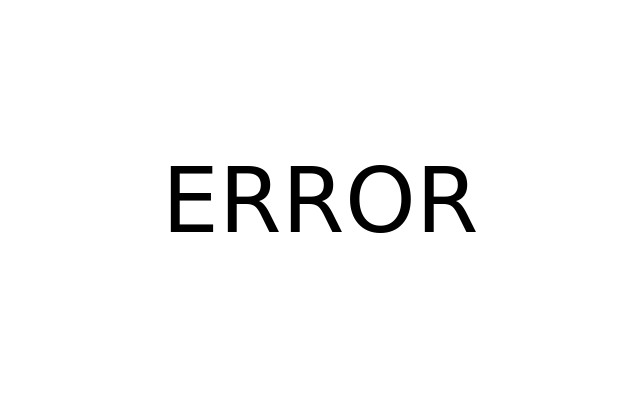
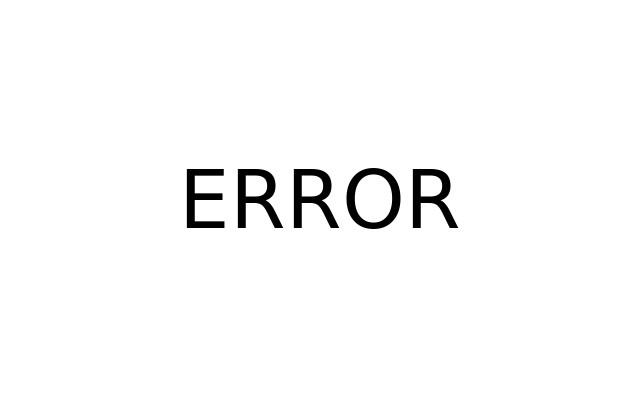
fix

Changed region(s): [[0.25, 0.39, 0.75, 0.6]]

diff --git a/src/ui/compare_images.rs b/src/ui/compare_images.rs
@@ -4,16 +4,17 @@ use image;
 
 use std::path::Path;
 
-pub struct Images {
+pub struct CompareImages {
     widget: gtk::Box,
     image0: gtk::Image,
     image1: gtk::Image,
+    dimensions: (i32, i32)
 }
 
 type ImagePair<'a> = Option<(&'a Path, &'a Path)>;
 
-impl Images {
-    pub fn new_from_pair(pair: ImagePair) -> Images {
+impl CompareImages {
+    pub fn new_from_pair(pair: ImagePair, dimensions: (i32, i32)) -> Self {
         let b = gtk::Box::new(gtk::Orientation::Horizontal, 0);
         b.set_valign(gtk::Align::Start);
         b.set_homogeneous(true);
@@ -23,10 +24,11 @@ impl Images {
         b.add(&image0);
         b.add(&image1);
 
-        let images = Images {
+        let images = CompareImages {
             widget: b,
             image0: image0,
             image1: image1,
+            dimensions: dimensions,
         };
         images.update_pair(pair);
         images
@@ -34,22 +36,22 @@ impl Images {
     pub fn update_pair(&self, pair: ImagePair) {
         match pair {
             None => {
-                let pixbuf = image::from_path("./images/placeholder.jpg").unwrap();
+                let pixbuf = image::from_path("./images/placeholder.jpg", self.dimensions).unwrap();
                 self.image0.set_from_pixbuf(Some(&pixbuf));
                 self.image1.set_from_pixbuf(Some(&pixbuf));
             }
             Some((path0, path1)) => {
-                match image::from_path(path0) {
+                match image::from_path(path0, self.dimensions) {
                     Ok(pixbuf) => self.image0.set_from_pixbuf(Some(&pixbuf)),
                     Err(_) => {
-                        let err_pixbuf = image::from_path("./images/error.jpg").unwrap();
+                        let err_pixbuf = image::from_path("./images/error.jpg", self.dimensions).unwrap();
                         self.image0.set_from_pixbuf(Some(&err_pixbuf))
                     }
                 }
-                match image::from_path(path1) {
+                match image::from_path(path1, self.dimensions) {
                     Ok(pixbuf) => self.image1.set_from_pixbuf(Some(&pixbuf)),
                     Err(_) => {
-                        let err_pixbuf = image::from_path("./images/error.jpg").unwrap();
+                        let err_pixbuf = image::from_path("./images/error.jpg", self.dimensions).unwrap();
                         self.image1.set_from_pixbuf(Some(&err_pixbuf))
                     }
                 }

diff --git a/src/image/mod.rs b/src/image/mod.rs
@@ -3,24 +3,23 @@ mod error;
 use gdk_pixbuf::{Pixbuf, PixbufLoader, InterpType};
 // use glib;
 // use gtk;
-use config;
+// use config;
 use std::path::Path;
 use std::fs::File;
 use std::io::prelude::*;
 
-pub fn get_new_dimensions((width, height): (i32, i32)) -> (i32, i32) {
-    let new_height = (height * config::MAX_WIDTH) / width;
 
-    if new_height <= config::MAX_HEIGHT {
-        (config::MAX_WIDTH, new_height)
+pub fn get_new_dimensions((width, height): (i32, i32), (max_width, min_height): (i32, i32)) -> (i32, i32) {
+    let new_height = (height * max_width) / width;
+
+    if new_height <= min_height {
+        (max_width, new_height)
     } else {
-        ((width * config::MAX_HEIGHT) / height, config::MAX_HEIGHT)
+        ((width * min_height) / height, min_height)
     }
 }
 
-pub fn from_path<P: AsRef<Path>>(path: P) -> Result<Pixbuf, error::Error> {
-    // let path = path.as_ref();
-
+pub fn from_path<P: AsRef<Path>>(path: P, dimensions: (i32, i32)) -> Result<Pixbuf, error::Error> {
     let mut file = match File::open(path) {
         Ok(f) => f,
         Err(e) => {
@@ -44,7 +43,7 @@ pub fn from_path<P: AsRef<Path>>(path: P) -> Result<Pixbuf, error::Error> {
             return Err(error::Error::NoPixbuf);
         }
     };
-    let (w, h) = get_new_dimensions((pixbuf.get_width(), pixbuf.get_height()));
+    let (w, h) = get_new_dimensions((pixbuf.get_width(), pixbuf.get_height()), dimensions);
     let pixbuf = pixbuf.scale_simple(w, h, InterpType::Hyper).unwrap();
     Ok(pixbuf)
 }

diff --git a/src/ui/image_list.rs b/src/ui/image_list.rs
@@ -1,0 +1,47 @@
+#![allow(dead_code, unused_variables, unused_imports)]
+use gtk;
+use gtk::prelude::*;
+
+use std::path::Path;
+use std::cmp::min;
+
+use image;
+
+pub struct ImageList {
+    widget: gtk::Box,
+}
+
+
+impl ImageList {
+    pub fn new(paths: &[&Path], selection: usize, dimensions: (i32, i32)) -> Self {
+        let b = gtk::Box::new(gtk::Orientation::Horizontal, 0);
+
+        let selection_begin = if selection <= 2 {
+            0
+        } else {
+            selection - 2
+        };
+        let selection_end = min(selection_begin + 5, paths.len());
+        let selection = selection - selection_begin;
+
+        let paths = &paths[selection_begin..selection_end];
+
+        for (n, path) in paths.into_iter().enumerate() {
+            let pixbuf = image::from_path(path, dimensions).unwrap();
+            let image = gtk::Image::new_from_pixbuf(Some(&pixbuf));
+            if n == selection {
+                image.set_name("image_active");
+            } else {
+                image.set_name("image_inactive");
+            }
+            b.add(&image);
+        }
+
+        ImageList {
+            widget: b
+        }
+    }
+    pub fn get_gtk_box(&self) -> &gtk::Box {
+        return &self.widget
+    }
+}

diff --git a/src/views/main.rs b/src/views/main.rs
@@ -6,7 +6,7 @@ use ui;
 
 pub struct Main {
     widget: gtk::Box,
-    images: ui::Images,
+    images: ui::CompareImages,
 }
 
 use std::path::PathBuf;
@@ -21,12 +21,24 @@ impl Main {
         b.set_homogeneous(false);
 
         let menubar = ui::MenuBar::new(parent_window, on_add_files);
-
         b.add(menubar.get_gtk_menubar());
 
-        let images = ui::Images::new_from_pair(state.get_pair());
-        b.add(images.get_gtk_box());
+        let grid = gtk::Grid::new();
 
+        let images = ui::CompareImages::new_from_pair(state.get_pair(), (128*5, 128*5));
+        grid.attach(images.get_gtk_box(), 0, 0, 2, 1);
+
+        {
+            let image_list = ui::ImageList::new(&state.get_unsorted(), 0, (128, 128));
+            grid.attach(image_list.get_gtk_box(), 0, 1, 1, 1);
+        };
+
+        {
+            let image_list = ui::ImageList::new(&state.get_sorted(), 0, (128, 128));
+            grid.attach(image_list.get_gtk_box(), 1, 1, 1, 1);
+        };
+
+        b.add(&grid);
         return Main {
             widget: b,
             images: images,

diff --git a/src/main.rs b/src/main.rs
@@ -5,7 +5,6 @@ mod image;
 mod ui;
 mod views;
 mod state;
-mod config;
 
 extern crate gtk;
 extern crate gdk_pixbuf;
@@ -22,6 +21,11 @@ fn main() {
         return;
     }
     let window = Window::new(WindowType::Toplevel);
+    let style_context = window.get_style_context().unwrap();
+    let css_style = gtk::CssProvider::new();
+    css_style.load_from_data(CSS).unwrap();
+    style_context.add_provider(&css_style, 1000000);
+
 
     window.set_title("Image Ranker");
     window.set_default_size(350, 70);

diff --git a/src/state.rs b/src/state.rs
@@ -60,4 +60,10 @@ impl State {
     fn mark_sorted(&mut self, position: usize) {
         self.sorted.insert(position, self.unsorted.pop().unwrap())
     }
+    pub fn get_unsorted(&self) -> Vec<&Path> {
+        self.unsorted.iter().map(|x| x.as_path()).collect()
+    }
+    pub fn get_sorted(&self) -> Vec<&Path> {
+        self.sorted.iter().map(|x| x.as_path()).collect()
+    }
 }

diff --git a/src/ui/mod.rs b/src/ui/mod.rs
@@ -1,5 +1,7 @@
 pub mod menubar;
-pub mod images;
+pub mod compare_images;
+pub mod image_list;
 
-pub use self::images::Images;
+pub use self::compare_images::CompareImages;
+pub use self::image_list::ImageList;
 pub use self::menubar::MenuBar;
